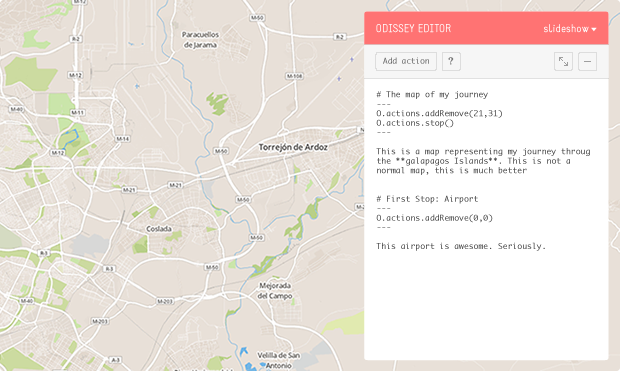
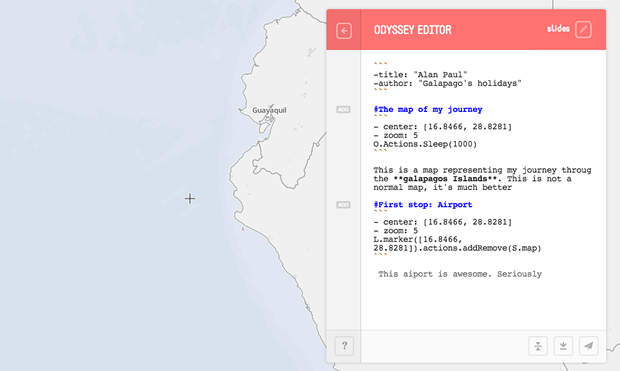
add real image for editor in homepage

diff --git a/css/main.css b/css/main.css
@@ -1,1 +1,1 @@
-html,body,div,span,applet,object,iframe,h1,h2,h3,h4,h5,h6,p,blockquote,pre,a,abbr,acronym,address,big,cite,code,del,dfn,em,img,ins,kbd,q,s,samp,small,strike,strong,sub,sup,tt,var,b,u,i,center,dl,dt,dd,ol,ul,li,fieldset,form,label,legend,table,caption,tbody,tfoot,thead,tr,th,td,article,aside,canvas,details,embed,figure,figcaption,footer,header,hgroup,menu,nav,output,ruby,section,summary,time,mark,audio,video{margin:0;padding:0;border:0;font:inherit;font-size:100%;vertical-align:baseline}html{line-height:1}ol,ul{list-style:none}table{border-collapse:collapse;border-spacing:0}caption,th,td{text-align:left;font-weight:normal;vertical-align:middle}q,blockquote{quotes:none}q:before,q:after,blockquote:before,blockquote:after{content:"";content:none}a img{border:none}article,aside,details,figcaption,figure,footer,header,hgroup,menu,nav,section,summary{display:block}@font-face{font-family:'Proxima Nova Lt';src:url("../fonts/ProximaNova-LightItalic.eot");src:url("../fonts/ProximaNova-LightItalic.eot?#iefix") format("embedded-opentype"),url("../fonts/ProximaNova-LightItalic.woff") format("woff"),url("../fonts/ProximaNova-LightItalic.ttf") format("truetype"),url("../fonts/ProximaNova-LightItalic.svg#1a04ccc617b24808e8115891ca97cce8") format("svg");font-style:italic;font-weight:200}@font-face{font-family:'Proxima Nova Th';src:url("../fonts/ProximaNova-Extrabold.eot");src:url("../fonts/ProximaNova-Extrabold.eot?#iefix") format("embedded-opentype"),url("../fonts/ProximaNova-Extrabold.woff") format("woff"),url("../fonts/ProximaNova-Extrabold.ttf") format("truetype"),url("../fonts/ProximaNova-Extrabold.svg#131ef5652291f8dc4bd914210809df02") format("svg");font-style:normal;font-weight:700}@font-face{font-family:'Proxima Nova Sb';src:url("../fonts/ProximaNova-Semibold.eot");src:url("../fonts/ProximaNova-Semibold.eot?#iefix") format("embedded-opentype"),url("../fonts/ProximaNova-Semibold.woff") format("woff"),url("../fonts/ProximaNova-Semibold.ttf") format("truetype"),url("../fonts/ProximaNova-Semibold.svg#67a6c9f6d7dc8f35ecb08de766ea56f0") format("svg");font-style:normal;font-weight:700}@font-face{font-family:'Proxima Nova Rg';src:url("../fonts/ProximaNova-Bold.eot");src:url("../fonts/ProximaNova-Bold.eot?#iefix") format("embedded-opentype"),url("../fonts/ProximaNova-Bold.woff") format("woff"),url("../fonts/ProximaNova-Bold.ttf") format("truetype"),url("../fonts/ProximaNova-Bold.svg#d1e00a8fb1fd9b428ab6b90409479fde") format("svg");font-style:normal;font-weight:700}@font-face{font-family:'Proxima Nova Rg';src:url("../fonts/ProximaNova-Regular.eot");src:url("../fonts/ProximaNova-Regular.eot?#iefix") format("embedded-opentype"),url("../fonts/ProximaNova-Regular.woff") format("woff"),url("../fonts/ProximaNova-Regular.ttf") format("truetype"),url("../fonts/ProximaNova-Regular.svg#2c1459d58560f08b4b0586fbe80aa4cd") format("svg");font-style:normal;font-weight:400}@font-face{font-family:'Proxima Nova Lt';src:url("../fonts/ProximaNova-Light.eot");src:url("../fonts/ProximaNova-Light.eot?#iefix") format("embedded-opentype"),url("../fonts/ProximaNova-Light.woff") format("woff"),url("../fonts/ProximaNova-Light.ttf") format("truetype"),url("../fonts/ProximaNova-Light.svg#da6ddaf3cf69afbba47bd74b5010b98d") format("svg");font-style:normal;font-weight:200}@font-face{font-family:'staticregular';src:url("../fonts/static-webfont.eot");src:url("../fonts/static-webfont.eot?#iefix") format("embedded-opentype"),url("../fonts/static-webfont.woff") format("woff"),url("../fonts/static-webfont.ttf") format("truetype"),url("../fonts/static-webfont.svg#staticregular") format("svg");font-weight:normal;font-style:normal}*,*:before,*:after{-moz-box-sizing:border-box;-webkit-box-sizing:border-box;box-sizing:border-box}.section:before,.section:after{content:".";display:block;height:0;overflow:hidden}.section:after{clear:both}.section{zoom:1}.button,.offcanvas-title,.navbar-title,.site-title,.section-title,.footer-title,.tip-title{font-family:staticregular;font-weight:400;text-transform:uppercase}.h-valign:before{display:inline-block;vertical-align:middle;content:"";height:100%;margin-left:-5px}.h-valigned{display:inline-block;vertical-align:middle;margin-left:5px}.h-lalign{float:left}.h-ralign{float:right}.i-download{display:block;width:33px;height:33px;background:url("../img/icons/download.png")}.i-download:hover{background:url("../img/icons/download-hover.png") no-repeat}.button{display:inline-block;width:108px;height:37px;border:1px solid #fff;font-size:14px;color:#fff;font-family:"Helvetica Neu", Helvetica;font-weight:bold;text-align:center;text-decoration:none;-webkit-border-radius:3px;-moz-border-radius:3px;-ms-border-radius:3px;-o-border-radius:3px;border-radius:3px;-webkit-transition:all 0.15s ease-out;-moz-transition:all 0.15s ease-out;-ms-transition:all 0.15s ease-out;-o-transition:all 0.15s ease-out;transition:all 0.15s ease-out}.button.download-link{width:150px}.button:hover,.button.button-primary{background:#fff;color:#444}.button.button-primary{height:36px;width:112px;border:0;background:rgba(255,255,255,0.9);color:#444}.button.button-primary.button-l{width:184px;height:59px}.button.button-primary:hover{background:#fff}.button.button-primary:hover{background:#fff}.button.button-l{width:180px;height:55px}.button.btn-documentation{border:2px solid #fff}.button+.button{margin-left:30px}.button.button-pink{border-color:#FF7373;color:#FF7373}.button.button-pink:hover{background:#FF7373;color:#fff}.button.button-pink.button-primary{background:#FF7373;color:#fff}.button.button-pink.button-primary:hover{background:#ff5a5a}.header-inner,.navbar-inner{position:absolute;top:0;height:90px}.inner-l{left:20px}.inner-r{right:20px}@media (max-width: 640px){.download-link{width:auto}.show-mobile{display:inline-block}.hide-mobile{display:none}}@media (min-width: 640px){.show-mobile{display:none}.hide-mobile{display:inline-block}}.margin-top-s{margin-top:16px}body{text-rendering:optimizeLegibility;-webkit-text-rendering:optimizeLegibility;-webkit-font-smoothing:antialiased;min-width:320px;font:15px/1.5 "Helvetica Neue", Helvetica, Arial, sans-serif;text-align:center;background:#111;color:#545454}.inner{max-width:940px;padding:0 20px;margin:0 auto}.offcanvas{position:relative;overflow:hidden;width:100%}.offcanvas.active .offcanvas-inner,.offcanvas.active .navbar{left:240px}.offcanvas-inner{position:relative;left:0;width:100%;background:#fff;-webkit-transition:all 0.15s ease-out;-moz-transition:all 0.15s ease-out;-ms-transition:all 0.15s ease-out;-o-transition:all 0.15s ease-out;transition:all 0.15s ease-out}.offcanvas-collapse{position:absolute;top:0;padding:30px 20px;text-align:left;font-size:14px;color:#fff}.active .offcanvas-collapse-inner{z-index:2}.offcanvas-collapse-inner{position:fixed;top:47px;left:20px;width:200px;z-index:-1}.offcanvas-menu{margin-bottom:100px}.offcanvas-menu li{margin-bottom:10px}.offcanvas-menu li:last-child{margin-bottom:0}.offcanvas-menu li a{text-decoration:none;color:#eee;color:rgba(255,255,255,0.9)}.offcanvas-menu li a:hover{color:#fff}.offcanvas-title{margin-bottom:10px;font-size:20px;text-transform:none}.offcanvas-title:before{content:"";display:block;position:relative;top:-10px;width:75px;height:1px;background:rgba(255,255,255,0.4)}.header{position:relative;height:600px;background:url("../img/header-bkg.jpg") center;color:#fff;-webkit-background-size:cover;-moz-background-size:cover;-ms-background-size:cover;-o-background-size:cover;background-size:cover}.header .inner{max-width:640px}.header .site-links{position:relative;z-index:4}@-webkit-keyframes bounceInDown{0%{opacity:0;-webkit-transform:translateY(-2000px);transform:translateY(-2000px)}100%{-webkit-transform:translateY(0);transform:translateY(0)}}@keyframes bounceInDown{0%{opacity:0;-webkit-transform:translateY(-2000px);-ms-transform:translateY(-2000px);transform:translateY(-2000px)}60%{opacity:1;-webkit-transform:translateY(30px);-ms-transform:translateY(30px);transform:translateY(30px)}80%{-webkit-transform:translateY(-10px);-ms-transform:translateY(-10px);transform:translateY(-10px)}100%{-webkit-transform:translateY(0);-ms-transform:translateY(0);transform:translateY(0)}}@-webkit-keyframes bounceIn{0%{opacity:0;-webkit-transform:scale(0.3);transform:scale(0.3)}100%{opacity:.8;-webkit-transform:scale(1);transform:scale(1)}}@keyframes bounceIn{0%{opacity:0;-webkit-transform:scale(0.3);-ms-transform:scale(0.3);transform:scale(0.3)}100%{opacity:.8;-webkit-transform:scale(1);-ms-transform:scale(1);transform:scale(1)}}.header-animation{position:absolute;top:0;right:0;bottom:0;left:0;pointer-events:none}.header-animation .point{border:2px solid rgba(255,255,255,0.5);border-radius:50%;background:rgba(255,255,255,0.3);display:inline-block;position:absolute;opacity:0}.header-animation .point-01{width:36px;height:36px;left:496px;bottom:70px;animation-duration:.5s;animation-name:bounceIn;animation-fill-mode:forwards;animation-delay:1.3s;-webkit-animation-duration:.5s;-webkit-animation-name:bounceIn;-webkit-animation-fill-mode:forwards;-webkit-animation-delay:1.3s}.header-animation .point-02{width:26px;height:26px;left:765px;bottom:316px;animation-duration:.5s;animation-name:bounceIn;animation-fill-mode:forwards;animation-delay:2.2s;-webkit-animation-duration:.5s;-webkit-animation-name:bounceIn;-webkit-animation-fill-mode:forwards;-webkit-animation-delay:2.2s}.header-animation .point-03{width:18px;height:18px;left:987px;bottom:524px;animation-duration:.5s;animation-name:bounceIn;animation-fill-mode:forwards;animation-delay:3s;-webkit-animation-duration:.5s;-webkit-animation-name:bounceIn;-webkit-animation-fill-mode:forwards;-webkit-animation-delay:3s}.header-animation .point-04{width:12px;height:12px;left:830px;top:200px;animation-duration:.5s;animation-name:bounceIn;animation-fill-mode:forwards;animation-delay:3.8s;-webkit-animation-duration:.5s;-webkit-animation-name:bounceIn;-webkit-animation-fill-mode:forwards;-webkit-animation-delay:3.8s}.header-animation .point-highlight{opacity:1;width:31px;height:49px;border:0;background-color:transparent;background:url("../img/icon-highlight.png") no-repeat;border-radius:0;left:315px;bottom:206px;animation-duration:1s;animation-name:bounceInDown;animation-fill-mode:forwards;animation-delay:.3s;-webkit-animation-duration:1s;-webkit-animation-name:bounceInDown;-webkit-animation-fill-mode:forwards;-webkit-animation-delay:.3s}@-webkit-keyframes fadeInLeft{0%{width:0}100%{width:174px}}@keyframes fadeInLeft{0%{width:0}100%{width:174px}}@-webkit-keyframes fadeInLeftbis{0%{width:0}100%{width:238px}}@keyframes fadeInLeftbis{0%{width:0}100%{width:238px}}@-webkit-keyframes fadeInLeftthird{0%{width:0}100%{width:238px}}@keyframes fadeInLeftthird{0%{width:0}100%{width:238px}}.line{height:200px;width:0;position:absolute;left:328px;bottom:25px;overflow:hidden;opacity:.3;-webkit-animation-name:fadeInLeft;-webkit-animation-duration:.5s;-webkit-animation-fill-mode:forwards;-webkit-animation-timing-function:linear;-webkit-animation-delay:1.2s;animation-name:fadeInLeft;animation-duration:.5s;animation-fill-mode:forwards;animation-timing-function:linear;animation-delay:1.2s}.line-2{height:236px;width:0;opacity:.3;animation-fill-mode:forwards;position:absolute;left:530px;bottom:88px;overflow:hidden;-webkit-animation-name:fadeInLeftbis;-webkit-animation-timing-function:linear;-webkit-animation-duration:.5s;-webkit-animation-fill-mode:forwards;-webkit-animation-delay:1.8s;animation-timing-function:linear;animation-name:fadeInLeftbis;animation-duration:.5s;animation-delay:1.8s}.line-3{height:200px;width:0;opacity:.3;position:absolute;left:752px;bottom:334px;overflow:hidden;-webkit-animation-name:fadeInLeftthird;-webkit-animation-timing-function:linear;-webkit-animation-duration:.5s;-webkit-animation-fill-mode:forwards;-webkit-animation-delay:2.6s;animation-timing-function:linear;animation-name:fadeInLeftthird;animation-duration:.5s;animation-fill-mode:forwards;animation-delay:2.6s}.line-4{height:200px;width:0;opacity:.3;position:absolute;right:470px;top:190px;overflow:hidden;-webkit-animation-name:fadeInLeftfourth;-webkit-animation-timing-function:linear;-webkit-animation-duration:.5s;-webkit-animation-fill-mode:forwards;-webkit-direction:reverse;-webkit-animation-delay:3.5s;animation-timing-function:linear;animation-name:fadeInLeftfourth;animation-duration:.5s;animation-fill-mode:forwards;animation-direction:reverse;animation-delay:3.5s}.line-4 svg{position:absolute;right:0;bottom:70px}.site-title{display:inline-block;width:202px;margin-bottom:30px;border:1px solid #ccc;border:1px solid rgba(255,255,255,0.8);border-right:0;border-left:0}.site-description{margin-bottom:50px;font-weight:bold;font-size:20px}.navbar{position:fixed;z-index:1;top:-90px;left:0;height:90px;width:100%;background:#35454B;-webkit-transition:all 0.15s ease-out;-moz-transition:all 0.15s ease-out;-ms-transition:all 0.15s ease-out;-o-transition:all 0.15s ease-out;transition:all 0.15s ease-out}.navbar-title{font-size:40px;color:#fff;text-decoration:none}.menu-link{width:24px;height:16px;background:url("../img/menu-bkg.png")}.site-title{font-size:60px;color:#fff}.content{overflow:hidden;background:#f5f5f5}.section{padding:100px 0}.section+.section{border-top:1px solid rgba(53,69,75,0.2);border-top:1px solid #ccc}.section img{max-width:100%;box-shadow:1px 1px 0px rgba(0,0,0,0.15);border-radius:4px}.section-title,.footer-title{margin-bottom:30px;font-size:22px}#choose{text-align:left}#choose img{margin-right:40px}#choose .section-title,#choose .footer-title{margin-top:60px}.tips{display:inline-block;position:relative;max-width:620px;margin-top:210px;font-size:12px}.tip-title{margin-bottom:10px;font-size:16px}.tip-l{position:absolute;top:25px;left:-200px;width:140px;text-align:right}.tip-l i{position:absolute;right:-70px;display:block;width:58px;height:15px;background:url("../img/tips/tip-l.png") center}.tip-t{position:absolute;top:-170px;left:50%;height:178px;width:200px;padding-left:30px;text-align:left}.tip-t i{position:absolute;left:0;display:block;width:15px;height:178px;background:url("../img/tips/tip-t.png") top center}.tip-r{position:absolute;top:54px;right:-225px;width:200px;text-align:left}.tip-r i{position:absolute;left:-70px;display:block;width:53px;height:15px;background:url("../img/tips/tip-r.png") center}.tip-r2{position:absolute;top:250px;right:-225px;width:200px;text-align:left}.tip-r2 i{position:absolute;left:-86px;display:block;width:69px;height:15px;background:url("../img/tips/tip-r2.png") center}.footer{padding:100px 0;font-size:12px;background:#35454B;color:#999;color:rgba(255,255,255,0.5)}.footer-title{color:#fff}.footer-description{margin-bottom:10px}.footer-description a{color:#999;color:rgba(255,255,255,0.5)}@media (max-width: 880px){.col{display:block;width:100%;text-align:center}.col img{margin:0 auto 60px}}@media (max-width: 640px){.download-link.button{width:37px}.tips{margin-top:60px}.tips img{margin-bottom:30px}.tip{position:static;width:100%;height:auto;padding:0;margin:0 0 60px;text-align:center}.tip:first-child .tip-title:before{display:none}.tip .tip-title:before{content:"";display:block;position:relative;top:-30px;width:75px;height:1px;margin:0 auto;background:#ccc}.tip i{display:none}.site-links .button.button-l,.section-links .button.button-l{display:block;width:100%;margin:0 0 10px}}@media (max-width: 1000px){.header-animation{margin-left:-20%}}@media (max-width: 840px){.header-animation{margin-left:-35%}}@media (max-width: 500px){.header .inner{margin-left:0;margin-right:0}.header-animation{margin-left:-58%}h-valigned{margin-left:-5px}.site-description{margin-bottom:30px;font-size:14px}.header-inner,.navbar-inner{height:70px}.inner-l{left:20px}.inner-r{right:25px}.site-title{margin-top:100px}.navbar{height:72px}.navbar-title{font-size:24px}.content .inner{margin-left:15px;margin-right:15px}.col img{margin-bottom:20px}.section{padding:50px 0}.tips li:last-child{margin-bottom:0}}@media (max-width: 360px){.header-animation{display:none}}
+html,body,div,span,applet,object,iframe,h1,h2,h3,h4,h5,h6,p,blockquote,pre,a,abbr,acronym,address,big,cite,code,del,dfn,em,img,ins,kbd,q,s,samp,small,strike,strong,sub,sup,tt,var,b,u,i,center,dl,dt,dd,ol,ul,li,fieldset,form,label,legend,table,caption,tbody,tfoot,thead,tr,th,td,article,aside,canvas,details,embed,figure,figcaption,footer,header,hgroup,menu,nav,output,ruby,section,summary,time,mark,audio,video{margin:0;padding:0;border:0;font:inherit;font-size:100%;vertical-align:baseline}html{line-height:1}ol,ul{list-style:none}table{border-collapse:collapse;border-spacing:0}caption,th,td{text-align:left;font-weight:normal;vertical-align:middle}q,blockquote{quotes:none}q:before,q:after,blockquote:before,blockquote:after{content:"";content:none}a img{border:none}article,aside,details,figcaption,figure,footer,header,hgroup,menu,nav,section,summary{display:block}@font-face{font-family:'Proxima Nova Lt';src:url("../fonts/ProximaNova-LightItalic.eot");src:url("../fonts/ProximaNova-LightItalic.eot?#iefix") format("embedded-opentype"),url("../fonts/ProximaNova-LightItalic.woff") format("woff"),url("../fonts/ProximaNova-LightItalic.ttf") format("truetype"),url("../fonts/ProximaNova-LightItalic.svg#1a04ccc617b24808e8115891ca97cce8") format("svg");font-style:italic;font-weight:200}@font-face{font-family:'Proxima Nova Th';src:url("../fonts/ProximaNova-Extrabold.eot");src:url("../fonts/ProximaNova-Extrabold.eot?#iefix") format("embedded-opentype"),url("../fonts/ProximaNova-Extrabold.woff") format("woff"),url("../fonts/ProximaNova-Extrabold.ttf") format("truetype"),url("../fonts/ProximaNova-Extrabold.svg#131ef5652291f8dc4bd914210809df02") format("svg");font-style:normal;font-weight:700}@font-face{font-family:'Proxima Nova Sb';src:url("../fonts/ProximaNova-Semibold.eot");src:url("../fonts/ProximaNova-Semibold.eot?#iefix") format("embedded-opentype"),url("../fonts/ProximaNova-Semibold.woff") format("woff"),url("../fonts/ProximaNova-Semibold.ttf") format("truetype"),url("../fonts/ProximaNova-Semibold.svg#67a6c9f6d7dc8f35ecb08de766ea56f0") format("svg");font-style:normal;font-weight:700}@font-face{font-family:'Proxima Nova Rg';src:url("../fonts/ProximaNova-Bold.eot");src:url("../fonts/ProximaNova-Bold.eot?#iefix") format("embedded-opentype"),url("../fonts/ProximaNova-Bold.woff") format("woff"),url("../fonts/ProximaNova-Bold.ttf") format("truetype"),url("../fonts/ProximaNova-Bold.svg#d1e00a8fb1fd9b428ab6b90409479fde") format("svg");font-style:normal;font-weight:700}@font-face{font-family:'Proxima Nova Rg';src:url("../fonts/ProximaNova-Regular.eot");src:url("../fonts/ProximaNova-Regular.eot?#iefix") format("embedded-opentype"),url("../fonts/ProximaNova-Regular.woff") format("woff"),url("../fonts/ProximaNova-Regular.ttf") format("truetype"),url("../fonts/ProximaNova-Regular.svg#2c1459d58560f08b4b0586fbe80aa4cd") format("svg");font-style:normal;font-weight:400}@font-face{font-family:'Proxima Nova Lt';src:url("../fonts/ProximaNova-Light.eot");src:url("../fonts/ProximaNova-Light.eot?#iefix") format("embedded-opentype"),url("../fonts/ProximaNova-Light.woff") format("woff"),url("../fonts/ProximaNova-Light.ttf") format("truetype"),url("../fonts/ProximaNova-Light.svg#da6ddaf3cf69afbba47bd74b5010b98d") format("svg");font-style:normal;font-weight:200}@font-face{font-family:'staticregular';src:url("../fonts/static-webfont.eot");src:url("../fonts/static-webfont.eot?#iefix") format("embedded-opentype"),url("../fonts/static-webfont.woff") format("woff"),url("../fonts/static-webfont.ttf") format("truetype"),url("../fonts/static-webfont.svg#staticregular") format("svg");font-weight:normal;font-style:normal}*,*:before,*:after{-moz-box-sizing:border-box;-webkit-box-sizing:border-box;box-sizing:border-box}.section:before,.section:after{content:".";display:block;height:0;overflow:hidden}.section:after{clear:both}.section{zoom:1}.button,.offcanvas-title,.navbar-title,.site-title,.section-title,.footer-title,.tip-title{font-family:staticregular;font-weight:400;text-transform:uppercase}.h-valign:before{display:inline-block;vertical-align:middle;content:"";height:100%;margin-left:-5px}.h-valigned{display:inline-block;vertical-align:middle;margin-left:5px}.h-lalign{float:left}.h-ralign{float:right}.i-download{display:block;width:33px;height:33px;background:url("../img/icons/download.png")}.i-download:hover{background:url("../img/icons/download-hover.png") no-repeat}.button{display:inline-block;width:108px;height:37px;border:1px solid #fff;font-size:14px;color:#fff;font-family:"Helvetica Neu", Helvetica;font-weight:bold;text-align:center;text-decoration:none;-webkit-border-radius:3px;-moz-border-radius:3px;-ms-border-radius:3px;-o-border-radius:3px;border-radius:3px;-webkit-transition:all 0.15s ease-out;-moz-transition:all 0.15s ease-out;-ms-transition:all 0.15s ease-out;-o-transition:all 0.15s ease-out;transition:all 0.15s ease-out}.button.download-link{width:150px}.button:hover,.button.button-primary{background:#fff;color:#444}.button.button-primary{height:36px;width:112px;border:0;background:rgba(255,255,255,0.9);color:#444}.button.button-primary.button-l{width:184px;height:59px}.button.button-primary:hover{background:#fff}.button.button-primary:hover{background:#fff}.button.button-l{width:180px;height:55px}.button.btn-documentation{border:2px solid #fff}.button+.button{margin-left:30px}.button.button-pink{border-color:#FF7373;color:#FF7373}.button.button-pink:hover{background:#FF7373;color:#fff}.button.button-pink.button-primary{background:#FF7373;color:#fff}.button.button-pink.button-primary:hover{background:#ff5a5a}.header-inner,.navbar-inner{position:absolute;top:0;height:90px}.inner-l{left:20px}.inner-r{right:20px}@media (max-width: 640px){.download-link{width:auto}.show-mobile{display:inline-block}.hide-mobile{display:none}}@media (min-width: 640px){.show-mobile{display:none}.hide-mobile{display:inline-block}}.margin-top-s{margin-top:16px}body{text-rendering:optimizeLegibility;-webkit-text-rendering:optimizeLegibility;-webkit-font-smoothing:antialiased;min-width:320px;font:15px/1.5 "Helvetica Neue", Helvetica, Arial, sans-serif;text-align:center;background:#111;color:#545454}.inner{max-width:940px;padding:0 20px;margin:0 auto}.offcanvas{position:relative;overflow:hidden;width:100%}.offcanvas.active .offcanvas-inner,.offcanvas.active .navbar{left:240px}.offcanvas-inner{position:relative;left:0;width:100%;background:#fff;-webkit-transition:all 0.15s ease-out;-moz-transition:all 0.15s ease-out;-ms-transition:all 0.15s ease-out;-o-transition:all 0.15s ease-out;transition:all 0.15s ease-out}.offcanvas-collapse{position:absolute;top:0;padding:30px 20px;text-align:left;font-size:14px;color:#fff}.active .offcanvas-collapse-inner{z-index:2}.offcanvas-collapse-inner{position:fixed;top:47px;left:20px;width:200px;z-index:-1}.offcanvas-menu{margin-bottom:100px}.offcanvas-menu li{margin-bottom:10px}.offcanvas-menu li:last-child{margin-bottom:0}.offcanvas-menu li a{text-decoration:none;color:#eee;color:rgba(255,255,255,0.9)}.offcanvas-menu li a:hover{color:#fff}.offcanvas-title{margin-bottom:10px;font-size:20px;text-transform:none}.offcanvas-title:before{content:"";display:block;position:relative;top:-10px;width:75px;height:1px;background:rgba(255,255,255,0.4)}.header{position:relative;height:600px;background:url("../img/header-bkg.jpg") center;color:#fff;-webkit-background-size:cover;-moz-background-size:cover;-ms-background-size:cover;-o-background-size:cover;background-size:cover}.header .inner{max-width:640px}.header .site-links{position:relative;z-index:4}@-webkit-keyframes bounceInDown{0%{opacity:0;-webkit-transform:translateY(-2000px);transform:translateY(-2000px)}100%{-webkit-transform:translateY(0);transform:translateY(0)}}@keyframes bounceInDown{0%{opacity:0;-webkit-transform:translateY(-2000px);-ms-transform:translateY(-2000px);transform:translateY(-2000px)}60%{opacity:1;-webkit-transform:translateY(30px);-ms-transform:translateY(30px);transform:translateY(30px)}80%{-webkit-transform:translateY(-10px);-ms-transform:translateY(-10px);transform:translateY(-10px)}100%{-webkit-transform:translateY(0);-ms-transform:translateY(0);transform:translateY(0)}}@-webkit-keyframes bounceIn{0%{opacity:0;-webkit-transform:scale(0.3);transform:scale(0.3)}100%{opacity:.8;-webkit-transform:scale(1);transform:scale(1)}}@keyframes bounceIn{0%{opacity:0;-webkit-transform:scale(0.3);-ms-transform:scale(0.3);transform:scale(0.3)}100%{opacity:.8;-webkit-transform:scale(1);-ms-transform:scale(1);transform:scale(1)}}.header-animation{position:absolute;top:0;right:0;bottom:0;left:0;pointer-events:none}.header-animation .point{border:2px solid rgba(255,255,255,0.5);border-radius:50%;background:rgba(255,255,255,0.3);display:inline-block;position:absolute;opacity:0}.header-animation .point-01{width:36px;height:36px;left:496px;bottom:70px;animation-duration:.5s;animation-name:bounceIn;animation-fill-mode:forwards;animation-delay:1.3s;-webkit-animation-duration:.5s;-webkit-animation-name:bounceIn;-webkit-animation-fill-mode:forwards;-webkit-animation-delay:1.3s}.header-animation .point-02{width:26px;height:26px;left:765px;bottom:316px;animation-duration:.5s;animation-name:bounceIn;animation-fill-mode:forwards;animation-delay:2.2s;-webkit-animation-duration:.5s;-webkit-animation-name:bounceIn;-webkit-animation-fill-mode:forwards;-webkit-animation-delay:2.2s}.header-animation .point-03{width:18px;height:18px;left:987px;bottom:524px;animation-duration:.5s;animation-name:bounceIn;animation-fill-mode:forwards;animation-delay:3s;-webkit-animation-duration:.5s;-webkit-animation-name:bounceIn;-webkit-animation-fill-mode:forwards;-webkit-animation-delay:3s}.header-animation .point-04{width:12px;height:12px;left:830px;top:200px;animation-duration:.5s;animation-name:bounceIn;animation-fill-mode:forwards;animation-delay:3.8s;-webkit-animation-duration:.5s;-webkit-animation-name:bounceIn;-webkit-animation-fill-mode:forwards;-webkit-animation-delay:3.8s}.header-animation .point-highlight{opacity:1;width:31px;height:49px;border:0;background-color:transparent;background:url("../img/icon-highlight.png") no-repeat;border-radius:0;left:315px;bottom:206px;animation-duration:1s;animation-name:bounceInDown;animation-fill-mode:forwards;animation-delay:.3s;-webkit-animation-duration:1s;-webkit-animation-name:bounceInDown;-webkit-animation-fill-mode:forwards;-webkit-animation-delay:.3s}@-webkit-keyframes fadeInLeft{0%{width:0}100%{width:174px}}@keyframes fadeInLeft{0%{width:0}100%{width:174px}}@-webkit-keyframes fadeInLeftbis{0%{width:0}100%{width:238px}}@keyframes fadeInLeftbis{0%{width:0}100%{width:238px}}@-webkit-keyframes fadeInLeftthird{0%{width:0}100%{width:238px}}@keyframes fadeInLeftthird{0%{width:0}100%{width:238px}}.line{height:200px;width:0;position:absolute;left:328px;bottom:25px;overflow:hidden;opacity:.3;-webkit-animation-name:fadeInLeft;-webkit-animation-duration:.5s;-webkit-animation-fill-mode:forwards;-webkit-animation-timing-function:linear;-webkit-animation-delay:1.2s;animation-name:fadeInLeft;animation-duration:.5s;animation-fill-mode:forwards;animation-timing-function:linear;animation-delay:1.2s}.line-2{height:236px;width:0;opacity:.3;animation-fill-mode:forwards;position:absolute;left:530px;bottom:88px;overflow:hidden;-webkit-animation-name:fadeInLeftbis;-webkit-animation-timing-function:linear;-webkit-animation-duration:.5s;-webkit-animation-fill-mode:forwards;-webkit-animation-delay:1.8s;animation-timing-function:linear;animation-name:fadeInLeftbis;animation-duration:.5s;animation-delay:1.8s}.line-3{height:200px;width:0;opacity:.3;position:absolute;left:752px;bottom:334px;overflow:hidden;-webkit-animation-name:fadeInLeftthird;-webkit-animation-timing-function:linear;-webkit-animation-duration:.5s;-webkit-animation-fill-mode:forwards;-webkit-animation-delay:2.6s;animation-timing-function:linear;animation-name:fadeInLeftthird;animation-duration:.5s;animation-fill-mode:forwards;animation-delay:2.6s}.line-4{height:200px;width:0;opacity:.3;position:absolute;right:470px;top:190px;overflow:hidden;-webkit-animation-name:fadeInLeftfourth;-webkit-animation-timing-function:linear;-webkit-animation-duration:.5s;-webkit-animation-fill-mode:forwards;-webkit-direction:reverse;-webkit-animation-delay:3.5s;animation-timing-function:linear;animation-name:fadeInLeftfourth;animation-duration:.5s;animation-fill-mode:forwards;animation-direction:reverse;animation-delay:3.5s}.line-4 svg{position:absolute;right:0;bottom:70px}.site-title{display:inline-block;width:202px;margin-bottom:30px;border:1px solid #ccc;border:1px solid rgba(255,255,255,0.8);border-right:0;border-left:0}.site-description{margin-bottom:50px;font-weight:bold;font-size:20px}.navbar{position:fixed;z-index:1;top:-90px;left:0;height:90px;width:100%;background:#35454B;-webkit-transition:all 0.15s ease-out;-moz-transition:all 0.15s ease-out;-ms-transition:all 0.15s ease-out;-o-transition:all 0.15s ease-out;transition:all 0.15s ease-out}.navbar-title{font-size:40px;color:#fff;text-decoration:none}.menu-link{width:24px;height:16px;background:url("../img/menu-bkg.png")}.site-title{font-size:60px;color:#fff}.content{overflow:hidden;background:#f5f5f5}.section{padding:100px 0}.section+.section{border-top:1px solid rgba(53,69,75,0.2);border-top:1px solid #ccc}.section img{max-width:100%;box-shadow:1px 1px 0px rgba(0,0,0,0.15);border-radius:4px}.section-title,.footer-title{margin-bottom:30px;font-size:22px}#choose{text-align:left}#choose img{margin-right:40px}#choose .section-title,#choose .footer-title{margin-top:60px}.tips{display:inline-block;position:relative;max-width:620px;margin-top:210px;font-size:12px}.tip-title{margin-bottom:10px;font-size:16px}.tip-l{position:absolute;top:25px;left:-200px;width:140px;text-align:right}.tip-l i{position:absolute;right:-70px;display:block;width:58px;height:15px;background:url("../img/tips/tip-l.png") center}.tip-t{position:absolute;top:-170px;left:50%;height:178px;width:200px;padding-left:30px;text-align:left}.tip-t i{position:absolute;left:0;display:block;width:15px;height:178px;background:url("../img/tips/tip-t.png") top center}.tip-r{position:absolute;top:116px;right:-225px;width:200px;text-align:left}.tip-r i{position:absolute;left:-70px;display:block;width:53px;height:15px;background:url("../img/tips/tip-r.png") center}.tip-r2{position:absolute;top:250px;right:-225px;width:200px;text-align:left}.tip-r2 i{position:absolute;left:-86px;display:block;width:69px;height:15px;background:url("../img/tips/tip-r2.png") center}.footer{padding:100px 0;font-size:12px;background:#35454B;color:#999;color:rgba(255,255,255,0.5)}.footer-title{color:#fff}.footer-description{margin-bottom:10px}.footer-description a{color:#999;color:rgba(255,255,255,0.5)}@media (max-width: 880px){.col{display:block;width:100%;text-align:center}.col img{margin:0 auto 60px}}@media (max-width: 640px){.download-link.button{width:37px}.tips{margin-top:60px}.tips img{margin-bottom:30px}.tip{position:static;width:100%;height:auto;padding:0;margin:0 0 60px;text-align:center}.tip:first-child .tip-title:before{display:none}.tip .tip-title:before{content:"";display:block;position:relative;top:-30px;width:75px;height:1px;margin:0 auto;background:#ccc}.tip i{display:none}.site-links .button.button-l,.section-links .button.button-l{display:block;width:100%;margin:0 0 10px}}@media (max-width: 1000px){.header-animation{margin-left:-20%}}@media (max-width: 840px){.header-animation{margin-left:-35%}}@media (max-width: 500px){.header .inner{margin-left:0;margin-right:0}.header-animation{margin-left:-58%}h-valigned{margin-left:-5px}.site-description{margin-bottom:30px;font-size:14px}.header-inner,.navbar-inner{height:70px}.inner-l{left:20px}.inner-r{right:25px}.site-title{margin-top:100px}.navbar{height:72px}.navbar-title{font-size:24px}.content .inner{margin-left:15px;margin-right:15px}.col img{margin-bottom:20px}.section{padding:50px 0}.tips li:last-child{margin-bottom:0}}@media (max-width: 360px){.header-animation{display:none}}

diff --git a/sass/main.scss b/sass/main.scss
@@ -605,7 +605,7 @@ body {
 
 .tip-r {
   position: absolute;
-  top: 54px; right: -225px;
+  top: 116px; right: -225px;
   width: 200px;
   text-align: left;
 
